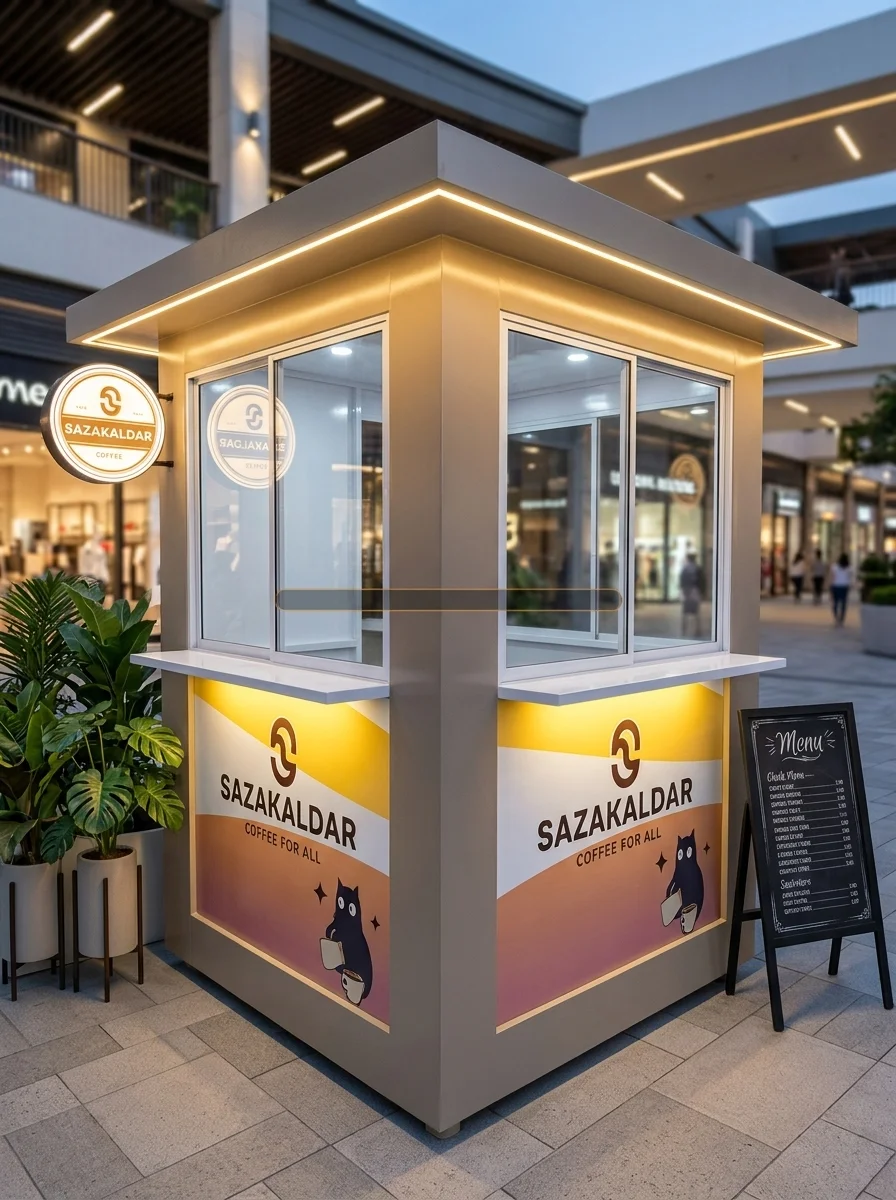
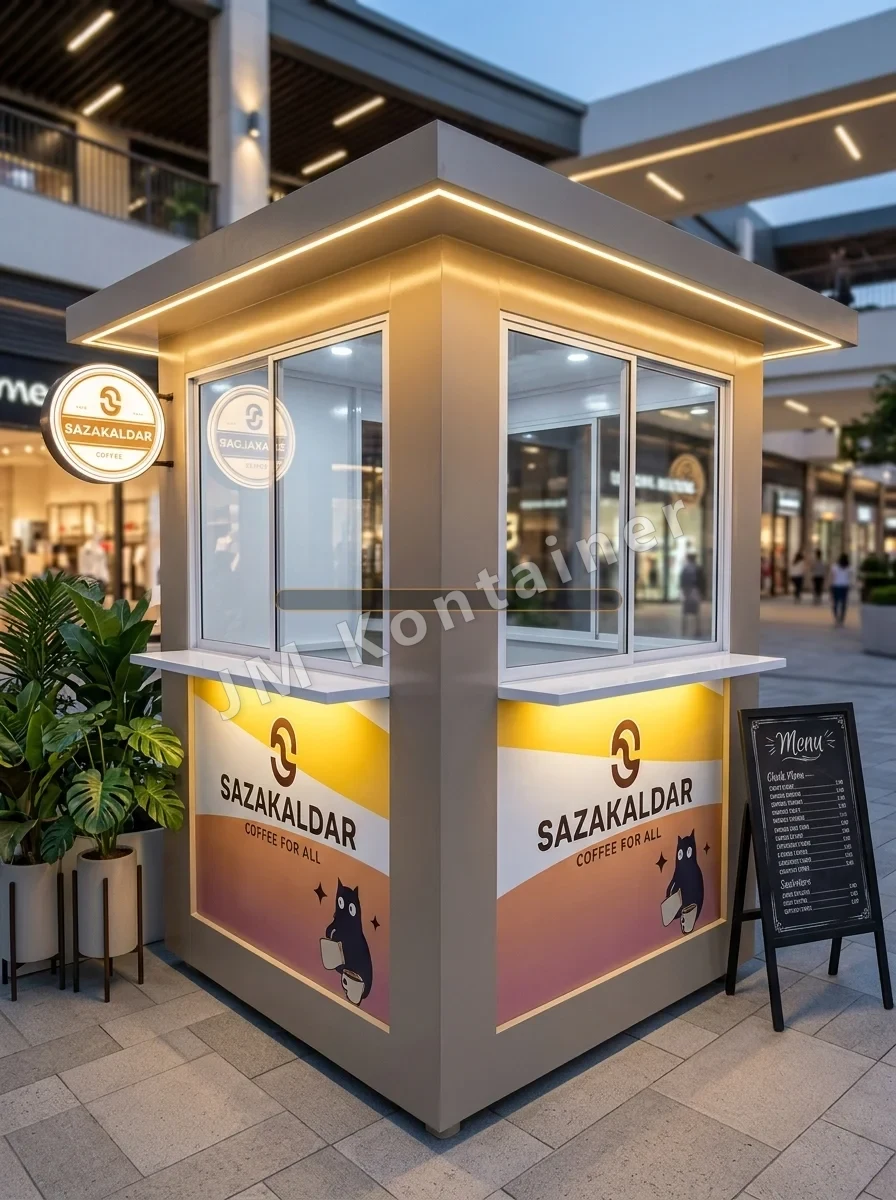
zxdf

Changed region(s): [[0.375, 0.4008, 0.7812, 0.555], [0.25, 0.5242, 0.3438, 0.6167]]

diff --git a/scripts/apply-watermark.js b/scripts/apply-watermark.js
@@ -1,0 +1,88 @@
+const fs = require('fs');
+const path = require('path');
+const sharp = require('sharp');
+
+async function applyWatermark(filePath) {
+  if (!fs.existsSync(filePath)) {
+    console.error(`File not found: ${filePath}`);
+    return;
+  }
+
+  // Clean any stray tmp file
+  const strayTmp = filePath + '.tmp.webp';
+  if (fs.existsSync(strayTmp)) {
+    try { fs.unlinkSync(strayTmp); } catch (e) {}
+  }
+
+  const inputBuffer = fs.readFileSync(filePath);
+  const meta = await sharp(inputBuffer).metadata();
+  const width = meta.width;
+  const height = meta.height;
+
+  // Responsive font size: ~7.5% of image width
+  const fontSize = Math.round(width * 0.075);
+  const strokeWidth = Math.max(1, Math.round(fontSize * 0.02));
+
+  // Professional semi-transparent SVG watermark (35% opacity) with subtle drop shadow
+  const svgWatermark = Buffer.from(`
+    <svg width="${width}" height="${height}" xmlns="http://www.w3.org/2000/svg">
+      <defs>
+        <filter id="shadow" x="-20%" y="-20%" width="140%" height="140%">
+          <feDropShadow dx="2" dy="2" stdDeviation="3" flood-color="#000000" flood-opacity="0.3"/>
+        </filter>
+      </defs>
+      <style>
+        .wm-text {
+          fill: rgba(255, 255, 255, 0.35);
+          stroke: rgba(0, 0, 0, 0.20);
+          stroke-width: ${strokeWidth}px;
+          font-family: -apple-system, BlinkMacSystemFont, "Segoe UI", Roboto, "Helvetica Neue", Arial, sans-serif;
+          font-size: ${fontSize}px;
+          font-weight: 800;
+          letter-spacing: 0.12em;
+          text-anchor: middle;
+          dominant-baseline: central;
+        }
+      </style>
+      <g transform="rotate(-22, ${width / 2}, ${height / 2})">
+        <text x="${width / 2}" y="${height / 2}" class="wm-text" filter="url(#shadow)">JM Kontainer</text>
+      </g>
+    </svg>
+  `);
+
+  const outputBuffer = await sharp(inputBuffer)
+    .composite([
+      {
+        input: svgWatermark,
+        blend: 'over',
+      },
+    ])
+    .webp({ quality: 88 })
+    .toBuffer();
+
+  fs.writeFileSync(filePath, outputBuffer);
+  console.log(`Watermarked: ${path.basename(filePath)} (${width}x${height})`);
+}
+
+async function main() {
+  const targetFiles = [
+    path.join(__dirname, '..', 'public', 'images', 'portfolio', 'workshop-las-1.webp'),
+    path.join(__dirname, '..', 'public', 'images', 'portfolio', 'kanopi-alderon-carport.webp'),
+    path.join(__dirname, '..', 'public', 'images', 'portfolio', 'pagar-minimalis-modern.webp'),
+    path.join(__dirname, '..', 'public', 'images', 'portfolio', 'rombong-kontainer-1.webp'),
+    path.join(__dirname, '..', 'public', 'images', 'slider', 'slide-1.webp'),
+    path.join(__dirname, '..', 'public', 'images', 'slider', 'slide-2.webp'),
+    path.join(__dirname, '..', 'public', 'images', 'slider', 'slide-3.webp'),
+    path.join(__dirname, '..', 'public', 'images', 'slider', 'slide-4.webp'),
+    path.join(__dirname, '..', 'public', 'images', 'slider', 'slide-5.webp'),
+  ];
+
+  for (const f of targetFiles) {
+    await applyWatermark(f);
+  }
+}
+
+main().catch(err => {
+  console.error(err);
+  process.exit(1);
+});
